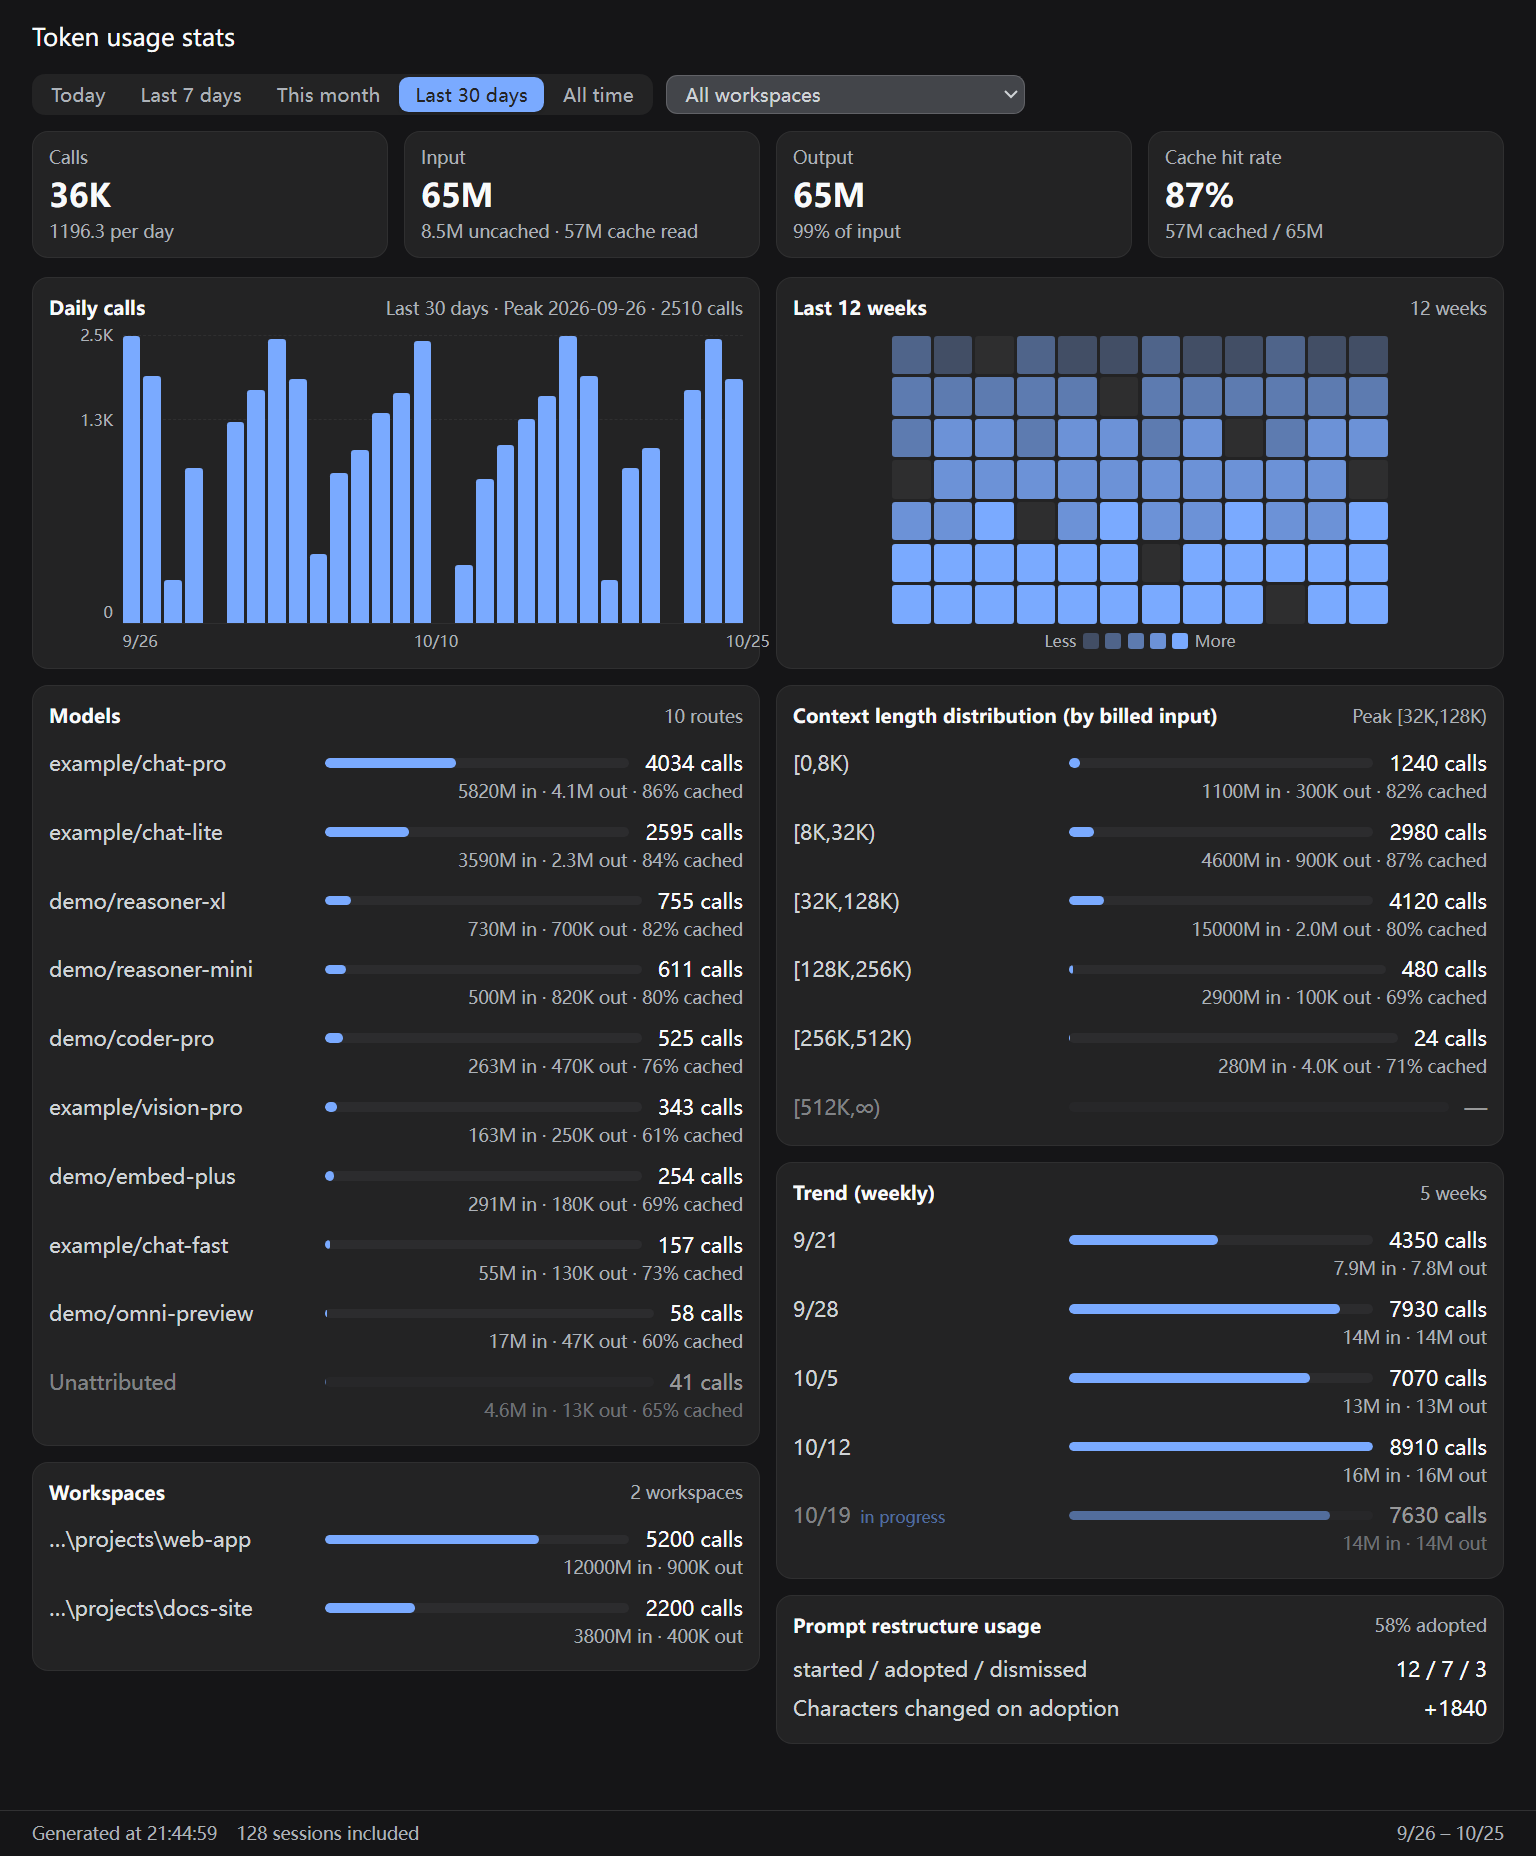
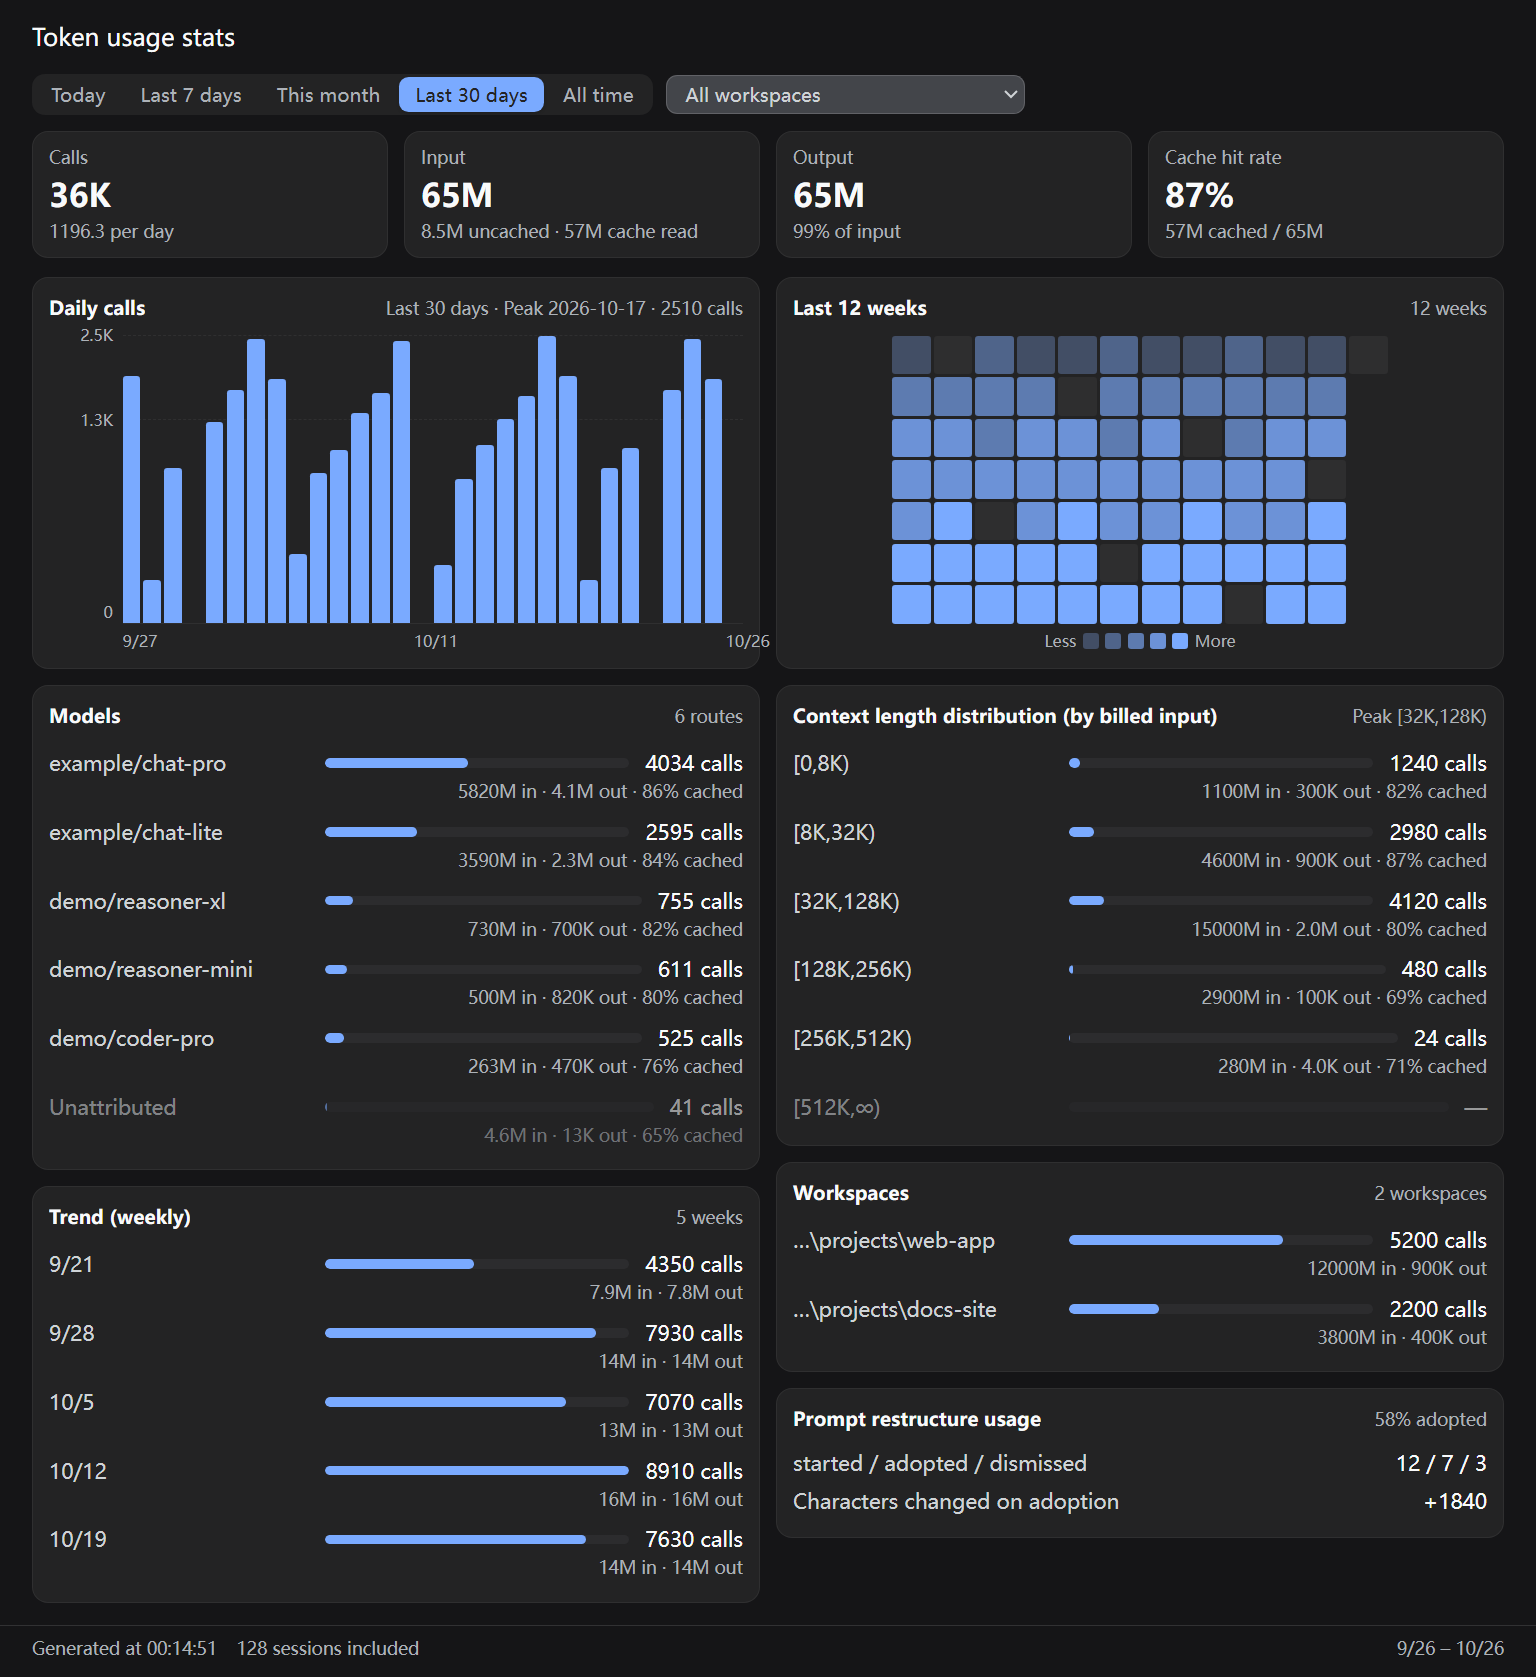
docs(pack): tokstats 效果图收敛为单张全图、模型排行夹具减到 6 条
- 维护者裁决「两张图合成一张」：此前为覆盖全部卡片裁过 hero + detail 两张
  横图，最终仍以一张完整面板图为准——一张图读得懂整块面板，两张图要读者
  自己拼。hero / detail 删除，README 中英与市场卡片共用同一张全图。
- 单张全图的高度预算靠渲染夹具行数控制：模型排行 10 条时整图 1536×1856
  （比例 0.83，市场卡片里糊），减到 6 条后双列贪心重排、整图 1536×1677
  （比例 0.92），八块内容仍在一张图里；长排行场景由测试夹具覆盖。
- 截图脚本改两遍跑：第一遍 --dump-dom 读页面自量的 #app 内容高度，第二遍
  按该高度设 --window-size——固定视口在内容变矮后于底部留一圈底色（减行数
  后空白曾达 200px、页脚被压到视口底），量不到时回退固定高度。
- screenshots.json 首屏改为「composer 预告行 + 整块面板」：原顺序首屏是
  tokstats 中/英两张近乎相同的竖图，白费一轮播位；英文版随后，消除同屏重复。
- MAINTAINING 同步三处：files 体积描述改为实测（六张约 640 KB）、截图规则
  的「尺寸固定」行改为两遍截图、卡片截图节改为单张全图裁决与高度预算说明。

diff --git a/CHANGELOG.md b/CHANGELOG.md
@@ -6,10 +6,12 @@
 
 ### Changed
 
-- **市场卡片与插件页简介统一为「token 花在哪一目了然」，截图改宽幅优先**：dsh-market 卡片上的简介是收录进 awesome-dsh-plugin 目录时生成的摘要，带着「宿主会话投影单元」「采纳才写回」两处实现黑话——浏览者三秒内读不懂这个插件给自己带来什么；卡片首屏两张又是 tokstats 中/英版的近方形竖图（1536×1856，比例 0.83），缩进卡片里小而糊，且两版近乎重复、白费一轮播位。本次三处同义改写 + 截图重排：
+- **市场卡片与插件页简介统一为「token 花在哪一目了然」，tokstats 效果图收敛为单张全图**：dsh-market 卡片上的简介是收录进 awesome-dsh-plugin 目录时生成的摘要，带着「宿主会话投影单元」「采纳才写回」两处实现黑话——浏览者三秒内读不懂这个插件给自己带来什么；卡片首屏两张又是 tokstats 中/英版的近方形竖图（1536×1856，比例 0.83），缩进卡片里小而糊，且两版近乎重复、白费一轮播位。本次三处同义改写 + 截图收敛：
   - **`locale/{zh,en}.json` 的 `meta.description`**（宿主设置 → 插件页显示的那句）改为痛点句式：「token 花在哪一目了然：跨会话用量统计、模型与工作区排行，附发送前预告与草稿整理。」/ `See where your tokens go: cross-session usage stats with model and workspace breakdowns, plus a next-turn forecast.`；
   - **`package.json` 的 `description`**（npm 元数据与宿主 `listBundles`）同步去掉「注册官方会话投影单元」等实现措辞，改为同一句式并保留三个插件名（tokstats / tokprev / promptopt）供检索——爬虫若重新生成目录摘要，源材料一致才不会漂回黑话；
-  - **`screenshots.json` 按「卡片可读性」重排，并新增「总览 + 详情」两张卡片刻意图**：宽幅在前（tokprev 5.25 → `tokstats-hero` 1.34 → `tokstats-detail` 2.69 → promptopt 3.38 → 各宽幅英文版），近方形全图垫底。tokstats 面板八块内容拆两图覆盖：**hero** 裁 1536×1144（标题 + KPI 四卡 + 每日柱图 + 热力图 + 模型排行前 6 行 + 上下文长度分布整卡 6 桶）；**detail** 裁 1536×570（模型排行剩余行 + 周趋势全 5 周含「进行中」+ 工作区排行 + 提示词整理使用情况）——单图塞全就会回到 0.83 的竖图、卡片里照样糊，拆两张才既全又看得清。两图均由现成的 tokstats 全图裁出（行边界处断，读作滚动中的面板），README 中英与市场卡片共用 hero；卡片图走 raw HEAD 直出，**推仓库后目录下一次 nightly 构建即生效，无需 PR**。
+  - **`screenshots.json` 重排 + tokstats 效果图收敛为单张全图**：原顺序首屏是 tokstats 中/英两张近乎相同的竖图，白费一轮播位；现首屏为「composer 预告行 + 整块面板」，英文版随后。面板保持**单张全图**——期间试过裁「总览 + 详情」两张横图（hero 1.34 / detail 2.69）覆盖全部卡片，维护者最终选择一张完整面板图，刻意图不保留。
+    - **模型排行夹具 10 条减到 6 条**（`scripts/render-screenshots.mjs`）：单张全图的高度预算靠夹具行数控制——双列贪心随行数重排，10 条时底边被工作区/周趋势压到比例 0.83、在市场卡片里糊；6 条后周趋势换到左列，整块面板 1536×1677（比例 0.92），八块内容仍在一张图里。长排行场景由测试夹具覆盖，不靠效果图。
+    - **截图脚本改两遍跑**：第一遍 `--dump-dom` 读页面自量的 `#app` 内容高度，第二遍按该高度设 `--window-size`——固定 1160 视口在内容变矮后会在底部留一圈底色（本次减行数后空白达 200px，页脚被压到视口底）。量不到时回退固定高度。
   - 目录条目里的 `description` 是手写 YAML 字段（`awesome-dsh-plugin` 仓库的 `data/plugins/PlusQi__dsh-tokstats.yml`），需另提 PR 精确替换——截图换序不等它，文案换句要等。
 
 ## [0.8.0] - 2026-10-25

diff --git a/README.en.md b/README.en.md
@@ -50,9 +50,7 @@ The official ContextMeter already shows how long the context is. What it does no
 
 How many tokens were spent, and who spent them?
 
-![tokstats panel at a glance (sample data)](./docs/assets/tokstats-hero.png)
-
-![tokstats full panel (sample data)](./docs/assets/tokstats-en.png)
+![tokstats panel (sample data)](./docs/assets/tokstats-en.png)
 
 "Token usage stats" in the sidebar opens a full panel:
 

diff --git a/README.md b/README.md
@@ -50,9 +50,7 @@ npx @deepseek-ai/dsh plugin --profile web add github:PlusQi/dsh-tokstats
 
 看看token花了多少，谁花得多？
 
-![tokstats 面板概览（示例数据）](./docs/assets/tokstats-hero.png)
-
-![tokstats 完整面板（示例数据）](./docs/assets/tokstats.png)
+![tokstats 面板效果示意（示例数据）](./docs/assets/tokstats.png)
 
 侧栏「Token 用量统计」进入全局面板：
 
